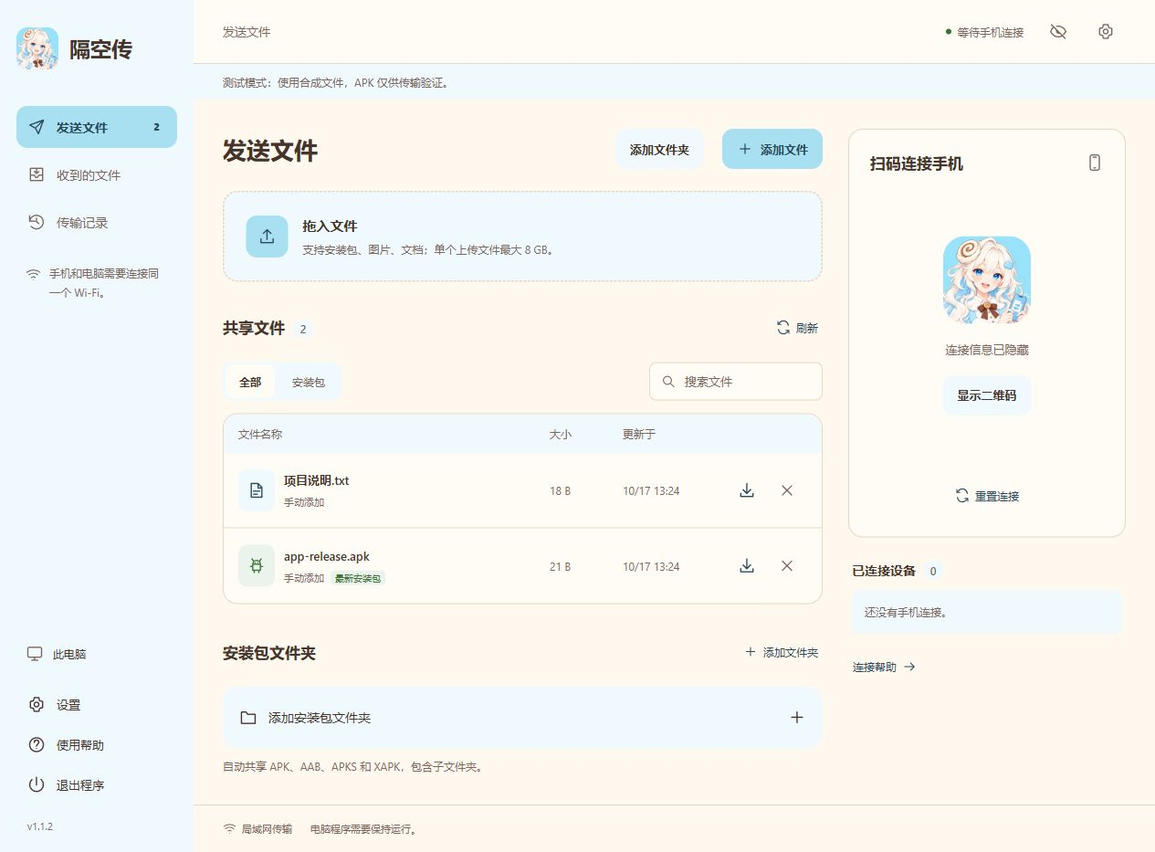
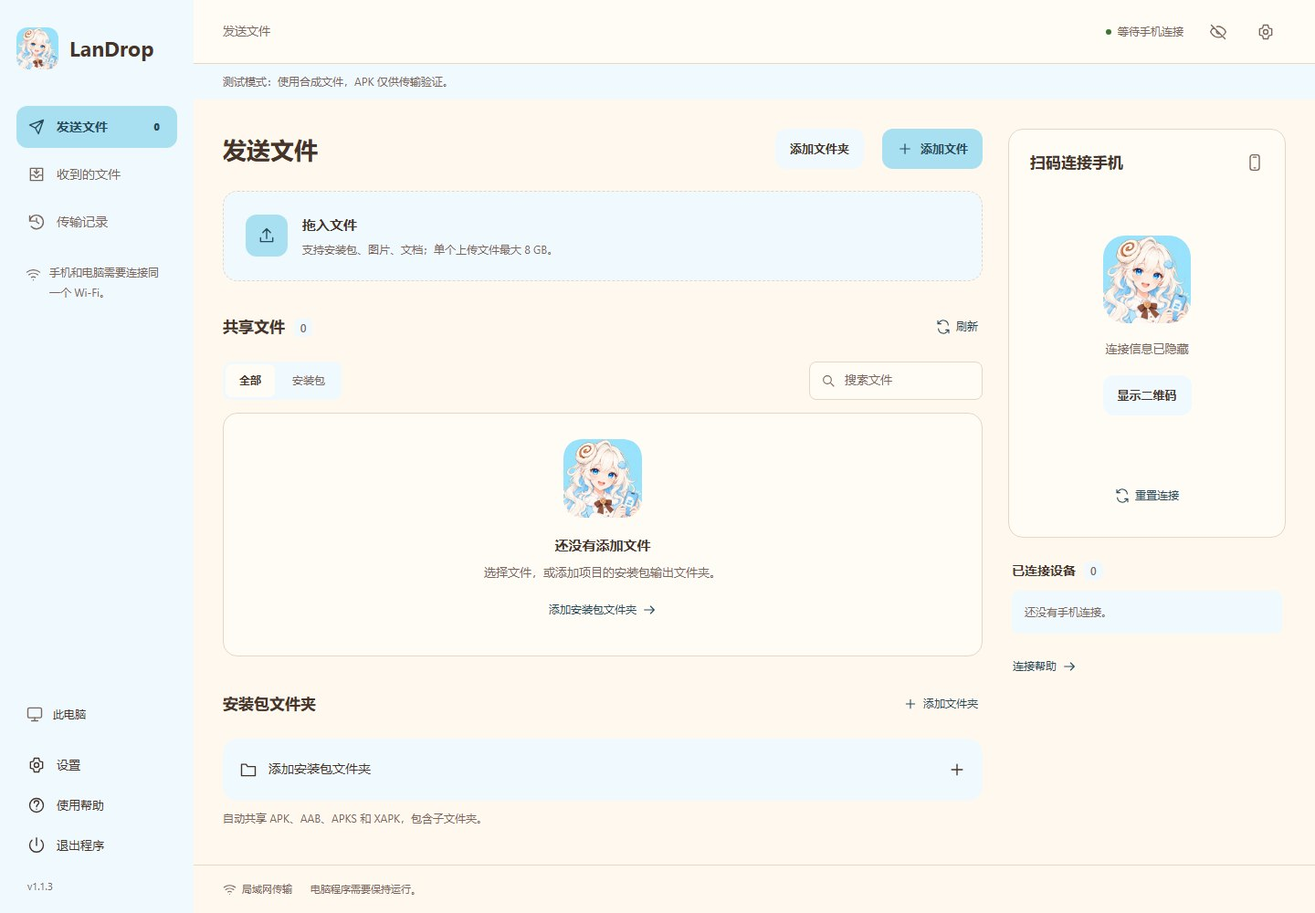
Use LanDrop as the product name and preserve upgrades from the previous name

diff --git a/frontend/ui/view.ts b/frontend/ui/view.ts
@@ -16,8 +16,8 @@ export class View {
     if (!state) {
       this.role = '';
       const desktop = document.body.dataset.client === 'desktop' || new URLSearchParams(location.hash.slice(1)).has('admin');
-      const heading = connection.phase === 'starting' ? '正在连接电脑' : connection.phase === 'stopped' ? '正在退出隔空传' : desktop ? '重新打开电脑端' : '连接电脑';
-      html(this.root, `<main class="locked-screen"><img src="/assets/cinna-icon.png" alt="隔空传图标" width="88" height="88" /><h1>${heading}</h1><p>${e(connection.phase === 'stopped' ? '可以关闭此页面。下次双击程序继续使用。' : connection.phase === 'starting' ? '正在读取文件和连接状态…' : connection.error)}</p>${connection.phase !== 'starting' && connection.phase !== 'stopped' ? `<div class="locked-steps">${desktop ? `<span>${icon('computer')}关闭报错页面，重新双击新版隔空传程序。</span>` : `<span>${icon('wifi')}手机和电脑连接同一个 Wi-Fi。</span><span>${icon('phone')}扫描电脑上的二维码，用浏览器打开。</span>`}</div><button class="button primary" data-action="retry">重试连接</button><button class="text-button" data-action="help">使用帮助</button>` : ''}</main>`);
+      const heading = connection.phase === 'starting' ? '正在连接电脑' : connection.phase === 'stopped' ? '正在退出LanDrop' : desktop ? '重新打开电脑端' : '连接电脑';
+      html(this.root, `<main class="locked-screen"><img src="/assets/cinna-icon.png" alt="LanDrop图标" width="88" height="88" /><h1>${heading}</h1><p>${e(connection.phase === 'stopped' ? '可以关闭此页面。下次双击程序继续使用。' : connection.phase === 'starting' ? '正在读取文件和连接状态…' : connection.error)}</p>${connection.phase !== 'starting' && connection.phase !== 'stopped' ? `<div class="locked-steps">${desktop ? `<span>${icon('computer')}关闭报错页面，重新双击新版LanDrop程序。</span>` : `<span>${icon('wifi')}手机和电脑连接同一个 Wi-Fi。</span><span>${icon('phone')}扫描电脑上的二维码，用浏览器打开。</span>`}</div><button class="button primary" data-action="retry">重试连接</button><button class="text-button" data-action="help">使用帮助</button>` : ''}</main>`);
       return;
     }
     if (this.role !== state.role) { this.role = state.role; this.shell(state); }
@@ -62,7 +62,7 @@ export class View {
   }
   private shell(state: Snapshot): void {
     const admin = state.role === 'admin'; this.pair = '';
-    html(this.root, `<div class="app-shell ${admin ? 'role-admin' : 'role-phone'}"><aside class="sidebar"><a class="brand" href="${admin ? '/desktop' : '/'}"><img src="/assets/cinna-icon.png" alt="隔空传图标" width="46" height="46" /><span>隔空传</span></a><nav class="nav" aria-label="主导航"><button class="nav-item" data-action="view" data-view="shared">${icon('send')}<span>发送文件</span><b id="nav-count">0</b></button><button class="nav-item" data-action="view" data-view="received">${icon('inbox')}<span>收到的文件</span></button><button class="nav-item" data-action="view" data-view="activity">${icon('history')}<span>传输记录</span></button></nav><p class="sidebar-note">${icon('wifi')}手机和电脑需要连接同一个 Wi-Fi。</p><div class="sidebar-bottom"><div class="local-device">${icon('computer')}<strong id="computer-name"></strong></div><button class="quiet-button" data-action="preferences">${icon('settings')}<span>设置</span></button><button class="quiet-button" data-action="help">${icon('help')}<span>使用帮助</span></button><button class="quiet-button" data-action="shutdown">${icon('power')}<span>退出程序</span></button><small id="version"></small></div></aside><div class="workspace"><header class="topbar"><span id="top-title">发送文件</span><span class="mobile-brand"><img src="/assets/cinna-icon.png" alt="" width="32" height="32" />隔空传</span><div class="top-actions"><span class="connection-status" id="connection-status"></span><button class="icon-button" id="privacy-button" data-action="privacy" aria-label="隐藏连接信息">${icon('eye')}</button><button class="icon-button" data-action="preferences" aria-label="设置">${icon('settings')}</button></div></header><div class="network-banner" id="network-banner" role="status" hidden></div><div class="test-banner" id="test-banner" hidden></div><div class="content-grid"><main class="primary-column"><div class="page-heading"><div><h1 id="page-title">发送文件</h1><p id="page-note" hidden></p></div>${admin ? '<button class="button secondary folder-shortcut" data-action="add-folder">添加文件夹</button>' : ''}<button class="button primary" data-action="add-files" id="add-button">${icon(admin ? 'plus' : 'upload')}${admin ? '添加文件' : '发送文件到电脑'}</button></div><section class="drop-zone" id="drop-zone" aria-label="拖入要共享的文件"><span class="drop-icon">${icon('upload')}</span><div><strong>拖入文件</strong><p>支持安装包、图片、文档；单个上传文件最大 8 GB。</p></div></section><section class="file-section" aria-labelledby="list-title"><div class="section-heading"><h2 id="list-title">共享文件</h2><button class="text-button" data-action="refresh">${icon('refresh')}刷新</button></div><div class="list-tools" id="list-tools"><div class="tabs" aria-label="文件类型"><button data-action="filter" data-filter="all" class="tab">全部</button><button data-action="filter" data-filter="apk" class="tab">安装包</button></div><label class="search">${icon('search')}<input id="search-input" type="search" placeholder="搜索文件" aria-label="搜索文件" autocomplete="off" /></label></div><div id="files" class="files"></div></section><section id="folders-section" class="folders-section"><div class="section-heading"><h2>安装包文件夹</h2><button class="text-button" data-action="add-folder">${icon('plus')}添加文件夹</button></div><div id="folders"></div><p class="footnote">自动共享 APK、AAB、APKS 和 XAPK，包含子文件夹。</p></section><div id="received-path" class="received-path" hidden></div></main><aside class="connection-panel"><div class="pair-card"><div class="section-heading"><h2>扫码连接手机</h2>${icon('phone')}</div><div id="pair-content"></div></div><section class="devices-card"><h2>已连接设备 <span class="count" id="device-count">0</span></h2><div id="devices"></div></section><button class="text-button connection-help" data-action="help">连接帮助 ${icon('arrow')}</button></aside></div><footer class="workspace-footer"><span>${icon('wifi')}局域网传输</span><span>电脑程序需要保持运行。</span><span id="transfer-summary"></span></footer></div></div>`);
+    html(this.root, `<div class="app-shell ${admin ? 'role-admin' : 'role-phone'}"><aside class="sidebar"><a class="brand" href="${admin ? '/desktop' : '/'}"><img src="/assets/cinna-icon.png" alt="LanDrop图标" width="46" height="46" /><span>LanDrop</span></a><nav class="nav" aria-label="主导航"><button class="nav-item" data-action="view" data-view="shared">${icon('send')}<span>发送文件</span><b id="nav-count">0</b></button><button class="nav-item" data-action="view" data-view="received">${icon('inbox')}<span>收到的文件</span></button><button class="nav-item" data-action="view" data-view="activity">${icon('history')}<span>传输记录</span></button></nav><p class="sidebar-note">${icon('wifi')}手机和电脑需要连接同一个 Wi-Fi。</p><div class="sidebar-bottom"><div class="local-device">${icon('computer')}<strong id="computer-name"></strong></div><button class="quiet-button" data-action="preferences">${icon('settings')}<span>设置</span></button><button class="quiet-button" data-action="help">${icon('help')}<span>使用帮助</span></button><button class="quiet-button" data-action="shutdown">${icon('power')}<span>退出程序</span></button><small id="version"></small></div></aside><div class="workspace"><header class="topbar"><span id="top-title">发送文件</span><span class="mobile-brand"><img src="/assets/cinna-icon.png" alt="" width="32" height="32" />LanDrop</span><div class="top-actions"><span class="connection-status" id="connection-status"></span><button class="icon-button" id="privacy-button" data-action="privacy" aria-label="隐藏连接信息">${icon('eye')}</button><button class="icon-button" data-action="preferences" aria-label="设置">${icon('settings')}</button></div></header><div class="network-banner" id="network-banner" role="status" hidden></div><div class="test-banner" id="test-banner" hidden></div><div class="content-grid"><main class="primary-column"><div class="page-heading"><div><h1 id="page-title">发送文件</h1><p id="page-note" hidden></p></div>${admin ? '<button class="button secondary folder-shortcut" data-action="add-folder">添加文件夹</button>' : ''}<button class="button primary" data-action="add-files" id="add-button">${icon(admin ? 'plus' : 'upload')}${admin ? '添加文件' : '发送文件到电脑'}</button></div><section class="drop-zone" id="drop-zone" aria-label="拖入要共享的文件"><span class="drop-icon">${icon('upload')}</span><div><strong>拖入文件</strong><p>支持安装包、图片、文档；单个上传文件最大 8 GB。</p></div></section><section class="file-section" aria-labelledby="list-title"><div class="section-heading"><h2 id="list-title">共享文件</h2><button class="text-button" data-action="refresh">${icon('refresh')}刷新</button></div><div class="list-tools" id="list-tools"><div class="tabs" aria-label="文件类型"><button data-action="filter" data-filter="all" class="tab">全部</button><button data-action="filter" data-filter="apk" class="tab">安装包</button></div><label class="search">${icon('search')}<input id="search-input" type="search" placeholder="搜索文件" aria-label="搜索文件" autocomplete="off" /></label></div><div id="files" class="files"></div></section><section id="folders-section" class="folders-section"><div class="section-heading"><h2>安装包文件夹</h2><button class="text-button" data-action="add-folder">${icon('plus')}添加文件夹</button></div><div id="folders"></div><p class="footnote">自动共享 APK、AAB、APKS 和 XAPK，包含子文件夹。</p></section><div id="received-path" class="received-path" hidden></div></main><aside class="connection-panel"><div class="pair-card"><div class="section-heading"><h2>扫码连接手机</h2>${icon('phone')}</div><div id="pair-content"></div></div><section class="devices-card"><h2>已连接设备 <span class="count" id="device-count">0</span></h2><div id="devices"></div></section><button class="text-button connection-help" data-action="help">连接帮助 ${icon('arrow')}</button></aside></div><footer class="workspace-footer"><span>${icon('wifi')}局域网传输</span><span>电脑程序需要保持运行。</span><span id="transfer-summary"></span></footer></div></div>`);
     element<HTMLInputElement>('#search-input').value = this.query;
   }
   private renderComputer(state: Snapshot): void {

diff --git a/frontend/app.ts b/frontend/app.ts
@@ -26,7 +26,7 @@ const report = (error: unknown): void => toast(error instanceof Error ? error.me
 function render(): void {
   view.render(session.connection);
   if (busy.has('native-picker')) document.querySelectorAll<HTMLButtonElement>('[data-action="add-files"],[data-action="pick-folder"]').forEach(button => { button.disabled = true; });
-  document.title = `隔空传${session.connection.snapshot?.role === 'admin' ? ' · 电脑端' : session.connection.snapshot ? ' · 手机端' : ''}`;
+  document.title = `LanDrop${session.connection.snapshot?.role === 'admin' ? ' · 电脑端' : session.connection.snapshot ? ' · 手机端' : ''}`;
 }
 async function run(key: string, operation: () => Promise<void>): Promise<void> {
   if (busy.has(key)) { toast('这项操作正在处理，请稍候。'); return; }
@@ -59,7 +59,7 @@ async function start(): Promise<void> {
   route(); schedulePoll();
 }
 function help(): void {
-  dialogs.open('使用帮助', `<div class="help-content"><h3>电脑发送到手机</h3><p>添加文件，或选择项目的安装包输出文件夹。手机扫描二维码，在浏览器中打开链接后下载。APK 下载后可在文件管理器中打开安装；AAB 不能直接安装。</p><h3>手机发送到电脑</h3><p>选择「发送文件到电脑」。看到「已保存到电脑」后，在电脑的「收到的文件」中查看。单个上传文件最大 8 GB，同名文件会自动另存。</p><h3>扫码打不开</h3><ol><li>手机和电脑连接同一个 Wi-Fi；电脑用网线连接同一台路由器也可以。</li><li>在系统浏览器中打开链接。微信中可通过菜单选择「在浏览器打开」。</li><li>检查 Windows 防火墙是否允许隔空传通过你信任的专用网络。</li><li>检查 VPN、访客 Wi-Fi 和路由器的设备隔离。有多个网卡时可切换二维码下面的地址。</li></ol><h3>保存与退出</h3><p>关闭网页后，电脑程序仍然运行。选择「退出程序」停止连接。移除共享不会删除原文件；拖入网页的文件会复制到电脑的待发送目录。</p><p class="help-note">传输使用局域网 HTTP，适合信任的家庭或开发网络。二维码包含临时连接凭据，需要撤销访问时选择「重置连接」。下载进度和续传由浏览器管理。</p></div><div class="dialog-actions"><button class="button primary" data-action="close-dialog">关闭帮助</button></div>`);
+  dialogs.open('使用帮助', `<div class="help-content"><h3>电脑发送到手机</h3><p>添加文件，或选择项目的安装包输出文件夹。手机扫描二维码，在浏览器中打开链接后下载。APK 下载后可在文件管理器中打开安装；AAB 不能直接安装。</p><h3>手机发送到电脑</h3><p>选择「发送文件到电脑」。看到「已保存到电脑」后，在电脑的「收到的文件」中查看。单个上传文件最大 8 GB，同名文件会自动另存。</p><h3>扫码打不开</h3><ol><li>手机和电脑连接同一个 Wi-Fi；电脑用网线连接同一台路由器也可以。</li><li>在系统浏览器中打开链接。微信中可通过菜单选择「在浏览器打开」。</li><li>检查 Windows 防火墙是否允许LanDrop通过你信任的专用网络。</li><li>检查 VPN、访客 Wi-Fi 和路由器的设备隔离。有多个网卡时可切换二维码下面的地址。</li></ol><h3>保存与退出</h3><p>关闭网页后，电脑程序仍然运行。选择「退出程序」停止连接。移除共享不会删除原文件；拖入网页的文件会复制到电脑的待发送目录。</p><p class="help-note">传输使用局域网 HTTP，适合信任的家庭或开发网络。二维码包含临时连接凭据，需要撤销访问时选择「重置连接」。下载进度和续传由浏览器管理。</p></div><div class="dialog-actions"><button class="button primary" data-action="close-dialog">关闭帮助</button></div>`);
 }
 function settings(): void {
   const state = session.connection.snapshot;
@@ -132,7 +132,7 @@ async function action(button: HTMLElement): Promise<void> {
   if (name === 'reset-pairs') { dialogs.confirm('重置手机连接', '已连接的手机会断开，旧二维码和链接会失效。手机需要重新扫码。', '重置连接', async () => { await request('/api/admin/reset-pairs', {}); await session.invalidate(); }); return; }
   if (name === 'revoke') { dialogs.confirm('断开设备', '该设备需要重新扫码才能继续上传和下载。', '断开设备', async () => { await request('/api/admin/revoke-device', { id: identifier }); await session.invalidate(); }); return; }
   if (name === 'recover-settings') { dialogs.confirm('备份并恢复共享设置', '程序会保留原始设置的备份，然后新建空的共享列表。收到的文件和电脑上的原文件会保留。', '备份并恢复', async () => { await request('/api/admin/recover-settings', {}); await session.invalidate(); toast('原设置已备份，可以重新添加共享文件。'); }); return; }
-  if (name === 'shutdown') { dialogs.confirm('退出隔空传', `${state.activeTransfers ? `当前有 ${state.activeTransfers} 个传输任务。` : ''}退出会中断未完成的传输，已保存的文件和共享目录会保留。`, '退出程序', async () => { await request('/api/admin/shutdown', {}); uploads.dispose(); clearTimeout(pollTimer); paused = true; session.stop(); }); }
+  if (name === 'shutdown') { dialogs.confirm('退出LanDrop', `${state.activeTransfers ? `当前有 ${state.activeTransfers} 个传输任务。` : ''}退出会中断未完成的传输，已保存的文件和共享目录会保留。`, '退出程序', async () => { await request('/api/admin/shutdown', {}); uploads.dispose(); clearTimeout(pollTimer); paused = true; session.stop(); }); }
 }
 
 document.addEventListener('click', event => {

diff --git a/frontend/index.html b/frontend/index.html
@@ -4,9 +4,9 @@
     <meta charset="UTF-8" />
     <meta name="viewport" content="width=device-width, initial-scale=1.0" />
     <meta name="theme-color" content="#FFFCF6" />
-    <meta name="description" content="隔空传，在同一个 Wi-Fi 下扫码连接电脑和手机，直接传送安装包与文件。" />
+    <meta name="description" content="LanDrop，在同一个 Wi-Fi 下扫码连接电脑和手机，直接传送安装包与文件。" />
     <meta name="author" content="Cinna" />
-    <title>隔空传 · 扫码传文件</title>
+    <title>LanDrop · 扫码传文件</title>
     <link rel="icon" type="image/png" sizes="16x16" href="/assets/favicon-16.png" />
     <link rel="icon" type="image/png" sizes="32x32" href="/assets/favicon-32.png" />
     <link rel="icon" type="image/png" sizes="48x48" href="/assets/favicon-48.png" />
@@ -15,8 +15,8 @@
     <script type="module" src="/assets/app.js"></script>
   </head>
   <body>
-    <div id="app"><div class="boot"><img src="/assets/cinna-icon.png" alt="" width="56" height="56" /><p>正在打开隔空传…</p></div></div>
-    <noscript>请在浏览器中启用 JavaScript 后使用隔空传。</noscript>
+    <div id="app"><div class="boot"><img src="/assets/cinna-icon.png" alt="" width="56" height="56" /><p>正在打开LanDrop…</p></div></div>
+    <noscript>请在浏览器中启用 JavaScript 后使用LanDrop。</noscript>
     <div id="transfers" class="transfers" aria-live="polite"></div>
     <div id="toast" class="toast" role="status" aria-live="polite"></div>
     <dialog id="dialog"></dialog>

diff --git a/scripts/release.py b/scripts/release.py
@@ -39,7 +39,7 @@ with zipfile.ZipFile(out/'图标素材.zip','w',compression=zipfile.ZIP_DEFLATED
     images.write(root/'project.json','project.json')
 shutil.copy2(root/'project.json',out/'工程信息.json')
 
-installer = f'隔空传-v{version}-安装程序.exe'
+installer = f'LanDrop-v{version}-windows-x64-setup.exe'
 for original, name in [(root / 'dist' / installer, installer), (root / 'docs/使用说明.txt', '使用说明.txt'), (root / 'docs/更新说明.txt', '更新说明.txt'), (root / 'docs/verification.md', '验证说明.md'), (root / 'docs/assets/desktop-current.jpg', '电脑界面.jpg'), (root / 'docs/assets/mobile-current.jpg', '手机界面.jpg'), (root / 'docs/assets/installed-brand-current.jpg','已安装界面.jpg'), (root / 'THIRD_PARTY_NOTICES.txt', 'THIRD_PARTY_NOTICES.txt')]:
     shutil.copy2(original, out / name)
 files = [root / name for name in ('AGENTS.md', '.gitignore', 'main.py', 'project.json', 'README.md', 'README.zh-CN.md', 'package.json', 'pnpm-lock.yaml', 'requirements.txt', 'requirements-build.txt', 'tsconfig.json', 'THIRD_PARTY_NOTICES.txt')]
@@ -50,19 +50,19 @@ for directory in ('frontend', 'resources', 'docs', 'scripts', 'tests', 'installe
 files = sorted(set(files))
 sources = {path.relative_to(root).as_posix(): hashlib.sha256(path.read_bytes()).hexdigest() for path in files}
 source_digest = hashlib.sha256(json.dumps(sources, sort_keys=True, separators=(',', ':')).encode()).hexdigest()
-archive = out / f'隔空传-v{version}-源码.zip'
+archive = out / f'LanDrop-v{version}-源码.zip'
 with zipfile.ZipFile(archive, 'w', compression=zipfile.ZIP_DEFLATED, compresslevel=9) as output:
     for path in files:
         output.write(path, 'lan-drop/' + path.relative_to(root).as_posix())
     output.writestr('lan-drop/source-manifest.json', json.dumps({'version': version, 'digest': source_digest, 'files': sources}, indent=2))
-payload_hash = hashlib.sha256((root / 'dist/隔空传.exe').read_bytes()).hexdigest()
+payload_hash = hashlib.sha256((root / 'dist/LanDrop.exe').read_bytes()).hexdigest()
 installer_report = json.loads(args.installer_report.read_text('utf-8'))
 if installer_report['payloadSha256'] != payload_hash:
     raise SystemExit('Installer validation used a different application payload.')
 upgrade_report=json.loads(args.upgrade_report.read_text('utf-8'))
 if upgrade_report['payloadSha256'] != payload_hash:
     raise SystemExit('Upgrade validation used a different application payload.')
-manifest = {'project':{key:project[key] for key in ('projectName','series','developer')}, 'brand':brand, 'app': '隔空传', 'version': version, 'platform': 'windows-x64', 'signed': False, 'sourceDigest': source_digest, 'runtimeSources': build['runtimeSources'], 'applicationPayloadSha256': payload_hash, 'sourceFiles': len(sources), 'checks': {'backendTests':args.backend_tests, 'frontendTests':args.frontend_tests, 'packagedLanTransferSha256':'passed', 'isolatedInstallerUpgradeUninstall':installer_report, 'nativeUpgradeAndPortConflict':upgrade_report, 'browserDesktop':'passed-1.1.2', 'browserPhoneWidth':'passed-1.1.2-390px', 'physicalAndroid':'not-tested', 'interactiveInstallerWizard':'visual-check-blocked-by-system-permission-dialog'}, 'files':{}}
+manifest = {'project':{key:project[key] for key in ('projectName','series','developer')}, 'brand':brand, 'app': 'LanDrop', 'version': version, 'platform': 'windows-x64', 'signed': False, 'sourceDigest': source_digest, 'runtimeSources': build['runtimeSources'], 'applicationPayloadSha256': payload_hash, 'sourceFiles': len(sources), 'checks': {'backendTests':args.backend_tests, 'frontendTests':args.frontend_tests, 'packagedLanTransferSha256':'passed', 'isolatedInstallerUpgradeUninstall':installer_report, 'nativeUpgradeAndPortConflict':upgrade_report, 'browserDesktop':'not-recorded', 'browserPhoneWidth':'not-recorded', 'physicalAndroid':'not-tested', 'interactiveInstallerWizard':'visual-check-blocked-by-system-permission-dialog'}, 'files':{}}
 for path in sorted(out.iterdir()):
     if path.is_file() and path.name not in {'release-manifest.json', 'SHA256SUMS.txt'}:
         manifest['files'][path.name] = {'bytes':path.stat().st_size, 'sha256':hashlib.sha256(path.read_bytes()).hexdigest()}

diff --git a/scripts/package.py b/scripts/package.py
@@ -18,13 +18,13 @@ version = json.loads((root / 'landrop/version.json').read_text('utf-8'))['versio
 project = json.loads((root / 'project.json').read_text('utf-8'))
 source = runtime_manifest(root)
 parts = tuple(int(part) for part in version.split('.')) + (0,)
-metadata = f'''VSVersionInfo(ffi=FixedFileInfo(filevers={parts!r}, prodvers={parts!r}, mask=0x3f, flags=0, OS=0x40004, fileType=1, subtype=0, date=(0,0)), kids=[StringFileInfo([StringTable('080404B0', [StringStruct('CompanyName',{project['developer']!r}), StringStruct('FileDescription','隔空传 · 局域网文件传输'), StringStruct('FileVersion','{version}'), StringStruct('InternalName',{project['projectName']!r}), StringStruct('LegalCopyright',{project['developer']!r}), StringStruct('OriginalFilename','隔空传.exe'), StringStruct('ProductName','隔空传'), StringStruct('ProductVersion','{version}')])]), VarFileInfo([VarStruct('Translation',[2052,1200])])])'''
+metadata = f'''VSVersionInfo(ffi=FixedFileInfo(filevers={parts!r}, prodvers={parts!r}, mask=0x3f, flags=0, OS=0x40004, fileType=1, subtype=0, date=(0,0)), kids=[StringFileInfo([StringTable('080404B0', [StringStruct('CompanyName',{project['developer']!r}), StringStruct('FileDescription','LanDrop · 局域网文件传输'), StringStruct('FileVersion','{version}'), StringStruct('InternalName',{project['projectName']!r}), StringStruct('LegalCopyright',{project['developer']!r}), StringStruct('OriginalFilename','LanDrop.exe'), StringStruct('ProductName','LanDrop'), StringStruct('ProductVersion','{version}')])]), VarFileInfo([VarStruct('Translation',[2052,1200])])])'''
 metadata_path = root / 'build/version.txt'
 metadata_path.parent.mkdir(parents=True, exist_ok=True)
 metadata_path.write_text(metadata, 'utf-8')
 subprocess.run([
     sys.executable, '-m', 'PyInstaller', '--noconfirm', '--clean', '--windowed',
-    '--' + args.mode, '--name', '隔空传', '--noupx',
+    '--' + args.mode, '--name', 'LanDrop', '--noupx',
     '--distpath', str(args.output.resolve()), '--workpath', str(root / 'build' / args.mode),
     '--specpath', str(root / 'build'),
     '--icon', str(root / 'resources/app.ico'),

diff --git a/landrop/server.py b/landrop/server.py
@@ -237,7 +237,7 @@ class Handler(BaseHTTPRequestHandler):
 
     def verify_request(self):
         if self.state.stopping.is_set() and urlsplit(self.path).path != '/api/health':
-            raise AppError('隔空传正在退出，请稍后重新打开程序。', 503, 'service-stopping')
+            raise AppError('LanDrop正在退出，请稍后重新打开程序。', 503, 'service-stopping')
         peer = ipaddress.ip_address(self.client_address[0])
         if not peer.is_private and not peer.is_loopback:
             raise AppError('仅支持局域网连接。', 403)
@@ -250,7 +250,7 @@ class Handler(BaseHTTPRequestHandler):
             if origin and origin != f'http://{host}':
                 raise AppError('请求来源不正确。', 403)
             if self.headers.get('X-LanDrop') != '1':
-                raise AppError('请通过隔空传界面进行操作。', 403)
+                raise AppError('请通过LanDrop界面进行操作。', 403)
 
     def dispatch(self):
         self.cached_json: bytes | None = None
@@ -375,7 +375,7 @@ class Handler(BaseHTTPRequestHandler):
             if (role == 'admin' and not self.local) or not secrets.compare_digest(token, expected):
                 with self.server.failure_lock:
                     self.server.failed_pairs[peer].append(time.time())
-                raise AppError('电脑端登录已失效，请重新打开隔空传程序。' if role == 'admin' else '二维码已失效，请扫描电脑上新的二维码。', 401)
+                raise AppError('电脑端登录已失效，请重新打开LanDrop程序。' if role == 'admin' else '二维码已失效，请扫描电脑上新的二维码。', 401)
             session_token = self.state.create_session(role, self.headers.get('User-Agent', ''), peer)
             return self.json({'ok': True}, extra={'Set-Cookie': f'landrop={session_token}; HttpOnly; SameSite=Strict; Path=/; Max-Age=86400'})
         if path == '/api/upload':

diff --git a/main.py b/main.py
@@ -76,7 +76,7 @@ def run(args, data_dir: Path, runtime_file: Path):
             else:
                 launch()
         if sys.stdout:
-            print(f'隔空传 {__version__} 已启动，端口 {state.port}。', flush=True)
+            print(f'LanDrop {__version__} 已启动，端口 {state.port}。', flush=True)
         if desktop:
             desktop.run()
         else:
@@ -103,7 +103,7 @@ def run(args, data_dir: Path, runtime_file: Path):
 
 
 def main():
-    parser = argparse.ArgumentParser(description='隔空传：在局域网扫码传文件。')
+    parser = argparse.ArgumentParser(description='LanDrop：在局域网扫码传文件。')
     parser.add_argument('paths', type=Path, nargs='*', help='拖到 exe 图标上的文件或文件夹')
     parser.add_argument('--port', type=int, default=41421)
     parser.add_argument('--state-dir', type=Path)
@@ -164,7 +164,7 @@ def main():
             if not stopping and guard.acquire():
                 break
             if time.monotonic() >= deadline:
-                raise AppError('隔空传尚未退出或启动尚未完成。请关闭系统文件选择窗口后重试。', 409, 'instance-busy')
+                raise AppError('LanDrop尚未退出或启动尚未完成。请关闭系统文件选择窗口后重试。', 409, 'instance-busy')
             time.sleep(.1)
         run(args, data_dir, runtime_file)
     finally:
@@ -178,7 +178,7 @@ if __name__ == '__main__':
         logging.exception('Application failed')
         if getattr(sys, 'frozen', False) and '--headless' not in sys.argv:
             from landrop.desktop import show_error
-            show_error('无法启动隔空传。\n' + str(error))
+            show_error('无法启动LanDrop。\n' + str(error))
         else:
             if sys.stderr:
                 print(str(error), file=sys.stderr)

diff --git a/scripts/build_installer.py b/scripts/build_installer.py
@@ -38,11 +38,11 @@ with zipfile.ZipFile(archive) as source:
 compiler = tool_dir / 'nsis-3.13/makensis.exe'
 payload = root / 'build/installer-payload'
 payload.mkdir(parents=True, exist_ok=True)
-shutil.copy2(root / 'dist/隔空传.exe', payload / '隔空传.exe')
+shutil.copy2(root / 'dist/LanDrop.exe', payload / 'LanDrop.exe')
 shutil.copy2(root / 'resources/app.ico', payload / 'app.ico')
 shutil.copy2(root / 'docs/使用说明.txt', payload / '使用说明.txt')
 shutil.copy2(root / 'THIRD_PARTY_NOTICES.txt', payload / 'THIRD_PARTY_NOTICES.txt')
-output = (args.output or root / f'dist/隔空传-v{version}-安装程序.exe').resolve()
+output = (args.output or root / f'dist/LanDrop-v{version}-windows-x64-setup.exe').resolve()
 output.parent.mkdir(parents=True, exist_ok=True)
 size = sum(path.stat().st_size for path in payload.iterdir())
 command = [str(compiler), '/V2', '/INPUTCHARSET', 'UTF8', f'/DProjectRoot={root}', f'/DAppVersion={version}', f'/DDeveloper={project["developer"]}', f'/DPayload={payload}', f'/DOutputFile={output}', f'/DInstalledSizeKB={(size + 1023) // 1024}']
@@ -53,7 +53,7 @@ if args.qa_state:
     if not state.is_relative_to(root.parent.resolve()):
         raise SystemExit('QA data must stay inside the task work directory.')
     data_args = '--state-dir $\\"' + str(state).replace('$', '$$') + '$\\"'
-    command.extend([f'/DAppKey=LanDrop.Cinna.QA.{args.qa_id}', f'/DShortcutName=隔空传 QA {args.qa_id}', f'/DDataArgs={data_args}'])
+    command.extend([f'/DAppKey=LanDrop.Cinna.QA.{args.qa_id}', f'/DShortcutName=LanDrop QA {args.qa_id}', f'/DLegacyShortcutName=隔空传 QA {args.qa_id}', f'/DDataArgs={data_args}'])
 command.append(str(root / 'installer/setup.nsi'))
 subprocess.run(command, check=True, cwd=root)
 print(output)

diff --git a/landrop/desktop.py b/landrop/desktop.py
@@ -20,7 +20,7 @@ def branded_root():
         identity('Cinna.LanDrop')
     root = tk.Tk()
     root.withdraw()
-    root.title('隔空传')
+    root.title('LanDrop')
     icon = Path(__file__).parent / 'web/assets/cinna-icon.png'
     if icon.is_file():
         root.brand_icon = tk.PhotoImage(file=str(icon))
@@ -61,10 +61,10 @@ class DesktopBridge:
     def ensure_can_shutdown(self):
         with self.lock:
             if self.dialog_busy:
-                raise AppError('请先关闭系统文件选择窗口，再退出隔空传。', 409, 'desktop-busy')
+                raise AppError('请先关闭系统文件选择窗口，再退出LanDrop。', 409, 'desktop-busy')
 
     def report_error(self, message: str):
-        messagebox.showerror('隔空传', message, parent=self.root)
+        messagebox.showerror('LanDrop', message, parent=self.root)
 
     def pump(self):
         if self.closed:
@@ -118,12 +118,12 @@ class DesktopBridge:
 
 def show_error(message: str):
     root = branded_root()
-    messagebox.showerror('隔空传', message, parent=root)
+    messagebox.showerror('LanDrop', message, parent=root)
     root.destroy()
 
 
 def confirm_upgrade(previous: str, current: str) -> bool:
     root = branded_root()
-    result = messagebox.askyesno('更新隔空传', f'版本 {previous} 正在运行。是否退出旧版并启动 {current}？\n\n已有文件和共享目录会保留；正在进行的传输会中断。', parent=root)
+    result = messagebox.askyesno('更新LanDrop', f'版本 {previous} 正在运行。是否退出旧版并启动 {current}？\n\n已有文件和共享目录会保留；正在进行的传输会中断。', parent=root)
     root.destroy()
     return result

diff --git a/landrop/launcher.py b/landrop/launcher.py
@@ -23,12 +23,12 @@ class UpgradeRequired(AppError):
 
 class InstanceStopping(AppError):
     def __init__(self):
-        super().__init__('隔空传正在退出，请稍候。', 409, 'instance-stopping')
+        super().__init__('LanDrop正在退出，请稍候。', 409, 'instance-stopping')
 
 
 def verify_instance(health, info):
     if not isinstance(health, dict) or health.get('app') != 'landrop' or (health.get('pid') is not None and info.pid and health['pid'] != info.pid):
-        raise AppError('运行信息与当前端口不一致。请先在旧版界面退出隔空传，再运行新版。', 409, 'runtime-mismatch')
+        raise AppError('运行信息与当前端口不一致。请先在旧版界面退出LanDrop，再运行新版。', 409, 'runtime-mismatch')
 
 
 def local_client():
@@ -50,7 +50,7 @@ def post(client, base: str, route: str, body: dict):
 
 def open_interface(url: str):
     if not webbrowser.open(url):
-        raise AppError('未能打开默认浏览器，请设置默认浏览器后重新打开隔空传。', 503, 'browser-unavailable')
+        raise AppError('未能打开默认浏览器，请设置默认浏览器后重新打开LanDrop。', 503, 'browser-unavailable')
 
 
 def reopen(runtime_file: Path, args, browser=open_interface) -> bool:

diff --git a/scripts/collect_notices.py b/scripts/collect_notices.py
@@ -3,7 +3,7 @@ from pathlib import Path
 import sys
 
 root = Path(__file__).resolve().parents[1]
-parts = ['隔空传 — Third-party notices\n\nThis distribution contains Python, Tcl/Tk, qrcode and colorama, and is packaged with the PyInstaller bootloader. The installer uses unmodified NSIS 3.13 including LZMA. NSIS source: https://nsis.sourceforge.io/Download . The following notices are reproduced from the installed distributions.\n']
+parts = ['LanDrop — Third-party notices\n\nThis distribution contains Python, Tcl/Tk, qrcode and colorama, and is packaged with the PyInstaller bootloader. The installer uses unmodified NSIS 3.13 including LZMA. NSIS source: https://nsis.sourceforge.io/Download . The following notices are reproduced from the installed distributions.\n']
 for name in ['qrcode', 'colorama', 'pyinstaller']:
     installed = distribution(name)
     for item in installed.files or []:

diff --git a/landrop/settings.py b/landrop/settings.py
@@ -84,7 +84,7 @@ class SettingsStore:
                     current = hashlib.file_digest(original, 'sha256').hexdigest()
             if current != self.fingerprint:
                 self.problem = 'external-change'
-                self.message = '设置已被其他程序修改，请重新打开隔空传后再保存。'
+                self.message = '设置已被其他程序修改，请重新打开LanDrop后再保存。'
                 raise AppError(self.message, 409, 'settings-protected')
             with tempfile.NamedTemporaryFile(prefix='.settings-', suffix='.tmp', dir=self.path.parent, delete=False) as file:
                 temporary = Path(file.name)
